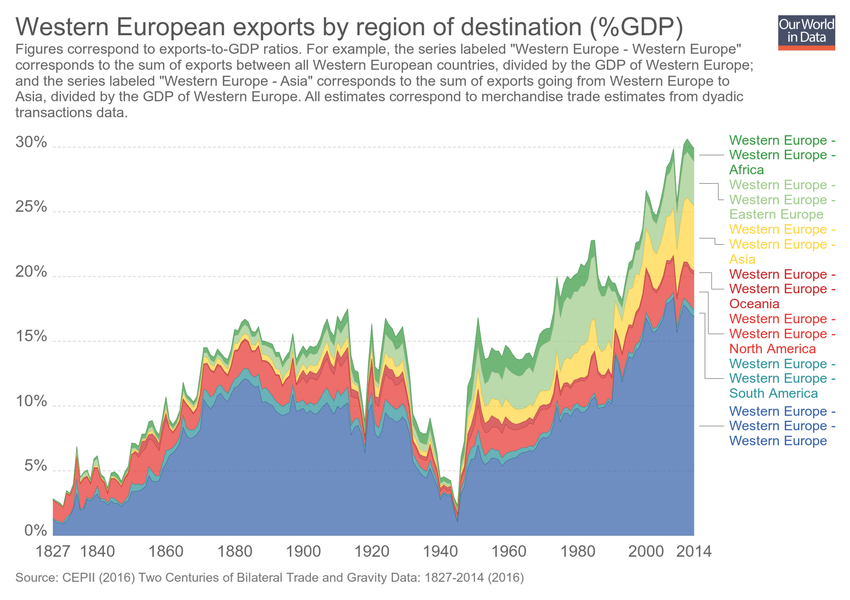
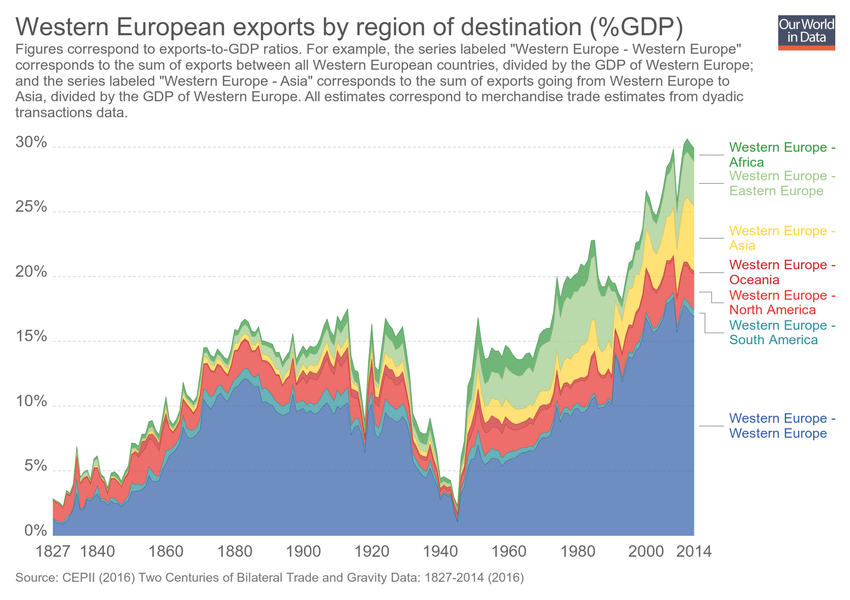
Updating chart exports-from-western-europe-to-other-regions

Changed region(s): [[0.8259, 0.21, 0.9788, 0.75]]

diff --git a/grapher/exports-from-western-europe-to-other-regions.html b/grapher/exports-from-western-europe-to-other-regions.html
@@ -1,4 +1,4 @@
-<!doctype html><html><head><meta name="viewport" content="width=device-width, initial-scale=1" /><title>Western European exports by region of destination (%GDP) - Our World in Data</title><meta name="description" content="Figures correspond to exports-to-GDP ratios.  For example, the series labeled &quot;Western Europe - Western Europe&quot; corresponds to the sum of exports between all Western European countries, divided by the GDP of Western Europe; and the series labeled &quot;Western Europe - Asia&quot; corresponds to the sum of exports going from Western Europe to Asia, divided by the GDP of Western Europe. All estimates correspond to merchandise trade estimates from dyadic transactions data. " /><link rel="canonical" href="https://ourworldindata.org/grapher/exports-from-western-europe-to-other-regions" /><meta property="fb:app_id" content="1149943818390250" /><meta property="og:url" content="https://ourworldindata.org/grapher/exports-from-western-europe-to-other-regions" /><meta property="og:title" content="Western European exports by region of destination (%GDP)" /><meta property="og:description" content="Figures correspond to exports-to-GDP ratios.  For example, the series labeled &quot;Western Europe - Western Europe&quot; corresponds to the sum of exports between all Western European countries, divided by the GDP of Western Europe; and the series labeled &quot;Western Europe - Asia&quot; corresponds to the sum of exports going from Western Europe to Asia, divided by the GDP of Western Europe. All estimates correspond to merchandise trade estimates from dyadic transactions data. " /><meta property="og:image" content="https://ourworldindata.org/grapher/exports/exports-from-western-europe-to-other-regions.png?v=20" /><meta property="og:image:width" content="850" /><meta property="og:image:height" content="600" /><meta property="og:site_name" content="Our World in Data" /><meta name="twitter:card" content="summary_large_image" /><meta name="twitter:site" content="@OurWorldInData" /><meta name="twitter:creator" content="@OurWorldInData" /><meta name="twitter:title" content="Western European exports by region of destination (%GDP)" /><meta name="twitter:description" content="Figures correspond to exports-to-GDP ratios.  For example, the series labeled &quot;Western Europe - Western Europe&quot; corresponds to the sum of exports between all Western European countries, divided by the GDP of Western Europe; and the series labeled &quot;Western Europe - Asia&quot; corresponds to the sum of exports going from Western Europe to Asia, divided by the GDP of Western Europe. All estimates correspond to merchandise trade estimates from dyadic transactions data. " /><meta name="twitter:image" content="https://ourworldindata.org/grapher/exports/exports-from-western-europe-to-other-regions.png?v=20" /><style>
+<!doctype html><html><head><meta name="viewport" content="width=device-width, initial-scale=1" /><title>Western European exports by region of destination (%GDP) - Our World in Data</title><meta name="description" content="Figures correspond to exports-to-GDP ratios.  For example, the series labeled &quot;Western Europe - Western Europe&quot; corresponds to the sum of exports between all Western European countries, divided by the GDP of Western Europe; and the series labeled &quot;Western Europe - Asia&quot; corresponds to the sum of exports going from Western Europe to Asia, divided by the GDP of Western Europe. All estimates correspond to merchandise trade estimates from dyadic transactions data. " /><link rel="canonical" href="https://ourworldindata.org/grapher/exports-from-western-europe-to-other-regions" /><meta property="fb:app_id" content="1149943818390250" /><meta property="og:url" content="https://ourworldindata.org/grapher/exports-from-western-europe-to-other-regions" /><meta property="og:title" content="Western European exports by region of destination (%GDP)" /><meta property="og:description" content="Figures correspond to exports-to-GDP ratios.  For example, the series labeled &quot;Western Europe - Western Europe&quot; corresponds to the sum of exports between all Western European countries, divided by the GDP of Western Europe; and the series labeled &quot;Western Europe - Asia&quot; corresponds to the sum of exports going from Western Europe to Asia, divided by the GDP of Western Europe. All estimates correspond to merchandise trade estimates from dyadic transactions data. " /><meta property="og:image" content="https://ourworldindata.org/grapher/exports/exports-from-western-europe-to-other-regions.png?v=22" /><meta property="og:image:width" content="850" /><meta property="og:image:height" content="600" /><meta property="og:site_name" content="Our World in Data" /><meta name="twitter:card" content="summary_large_image" /><meta name="twitter:site" content="@OurWorldInData" /><meta name="twitter:creator" content="@OurWorldInData" /><meta name="twitter:title" content="Western European exports by region of destination (%GDP)" /><meta name="twitter:description" content="Figures correspond to exports-to-GDP ratios.  For example, the series labeled &quot;Western Europe - Western Europe&quot; corresponds to the sum of exports between all Western European countries, divided by the GDP of Western Europe; and the series labeled &quot;Western Europe - Asia&quot; corresponds to the sum of exports going from Western Europe to Asia, divided by the GDP of Western Europe. All estimates correspond to merchandise trade estimates from dyadic transactions data. " /><meta name="twitter:image" content="https://ourworldindata.org/grapher/exports/exports-from-western-europe-to-other-regions.png?v=22" /><style>
         html, body {
             height: 100%;
             margin: 0;
@@ -20,8 +20,8 @@
         }
     </style><noscript><style>
                     figure { display: none !important; }
-                </style></noscript><link rel="stylesheet" href="https://ourworldindata.org/grapher/assets/commons.bundle.9b8c6ed3f71d7662b5f2.css" /><link rel="preload" href="/grapher/data/variables/96417+96410+96413+96412+96415+96414+96416+96411.json?v=20" as="fetch" crossorigin /></head><body class="singleChart"><figure data-grapher-src="/grapher/exports-from-western-europe-to-other-regions"></figure><noscript id="fallback"><img src="/grapher/exports/exports-from-western-europe-to-other-regions.svg" /><p>Interactive visualization requires JavaScript</p></noscript><script src="https://cdn.polyfill.io/v2/polyfill.min.js?features=es6,fetch"></script><script src="https://ourworldindata.org/grapher/assets/commons.bundle.9b8c6ed3f71d7662b5f2.js"></script><script src="https://ourworldindata.org/grapher/assets/charts.bundle.9b8c6ed3f71d7662b5f2.js"></script><script>
-        var jsonConfig = {"id":3130,"map":{"projection":"World","colorSchemeLabels":[],"colorSchemeValues":[],"customNumericColors":[],"customCategoryColors":{},"customCategoryLabels":{},"customHiddenCategories":{}},"tab":"chart","slug":"exports-from-western-europe-to-other-regions","type":"StackedArea","title":"Western European exports by region of destination (%GDP)","xAxis":{"scaleType":"linear"},"yAxis":{"min":0,"scaleType":"linear"},"version":20,"subtitle":"Figures correspond to exports-to-GDP ratios.  For example, the series labeled \"Western Europe - Western Europe\" corresponds to the sum of exports between all Western European countries, divided by the GDP of Western Europe; and the series labeled \"Western Europe - Asia\" corresponds to the sum of exports going from Western Europe to Asia, divided by the GDP of Western Europe. All estimates correspond to merchandise trade estimates from dyadic transactions data. ","hasMapTab":false,"stackMode":"absolute","dimensions":[{"display":{"name":"Western Europe - Western Europe"},"property":"y","variableId":96417},{"display":{"name":"Western Europe - Africa"},"property":"y","variableId":96410},{"display":{"name":"Western Europe - Eastern Europe"},"property":"y","variableId":96413},{"display":{"name":"Western Europe - Asia"},"property":"y","variableId":96412},{"display":{"name":"Western Europe - Oceania"},"property":"y","variableId":96415},{"display":{"name":"Western Europe - North America"},"property":"y","variableId":96414},{"display":{"name":"Western Europe - South America"},"property":"y","variableId":96416},{"display":{},"property":"y","variableId":96411}],"hasChartTab":true,"isPublished":true,"selectedData":[{"index":1,"entityId":476},{"index":2,"entityId":476},{"index":3,"entityId":476},{"index":4,"entityId":476},{"index":5,"entityId":476},{"index":6,"entityId":476},{"index":0,"entityId":476}],"addCountryMode":"disabled","hideTitleAnnotation":true};
+                </style></noscript><link rel="stylesheet" href="https://ourworldindata.org/grapher/assets/commons.bundle.9b8c6ed3f71d7662b5f2.css" /><link rel="preload" href="/grapher/data/variables/96417+96410+96413+96412+96415+96414+96416.json?v=22" as="fetch" crossorigin /></head><body class="singleChart"><figure data-grapher-src="/grapher/exports-from-western-europe-to-other-regions"></figure><noscript id="fallback"><img src="/grapher/exports/exports-from-western-europe-to-other-regions.svg" /><p>Interactive visualization requires JavaScript</p></noscript><script src="https://cdn.polyfill.io/v2/polyfill.min.js?features=es6,fetch"></script><script src="https://ourworldindata.org/grapher/assets/commons.bundle.9b8c6ed3f71d7662b5f2.js"></script><script src="https://ourworldindata.org/grapher/assets/charts.bundle.9b8c6ed3f71d7662b5f2.js"></script><script>
+        var jsonConfig = {"id":3130,"map":{"projection":"World","colorSchemeLabels":[],"colorSchemeValues":[],"customNumericColors":[],"customCategoryColors":{},"customCategoryLabels":{},"customHiddenCategories":{}},"tab":"chart","slug":"exports-from-western-europe-to-other-regions","type":"StackedArea","title":"Western European exports by region of destination (%GDP)","xAxis":{"scaleType":"linear"},"yAxis":{"min":0,"scaleType":"linear"},"version":22,"subtitle":"Figures correspond to exports-to-GDP ratios.  For example, the series labeled \"Western Europe - Western Europe\" corresponds to the sum of exports between all Western European countries, divided by the GDP of Western Europe; and the series labeled \"Western Europe - Asia\" corresponds to the sum of exports going from Western Europe to Asia, divided by the GDP of Western Europe. All estimates correspond to merchandise trade estimates from dyadic transactions data. ","hasMapTab":false,"stackMode":"absolute","dimensions":[{"display":{"name":"Western Europe"},"property":"y","variableId":96417},{"display":{"name":"Africa"},"property":"y","variableId":96410},{"display":{"name":"Eastern Europe"},"property":"y","variableId":96413},{"display":{"name":"Asia"},"property":"y","variableId":96412},{"display":{"name":"Oceania"},"property":"y","variableId":96415},{"display":{"name":"North America"},"property":"y","variableId":96414},{"display":{"name":"South America"},"property":"y","variableId":96416}],"hasChartTab":true,"isPublished":true,"selectedData":[{"index":1,"entityId":476},{"index":2,"entityId":476},{"index":3,"entityId":476},{"index":4,"entityId":476},{"index":5,"entityId":476},{"index":6,"entityId":476},{"index":0,"entityId":476}],"addCountryMode":"disabled","hideTitleAnnotation":true};
         var figure = document.getElementsByTagName("figure")[0];
         try {
             window.App = {};
